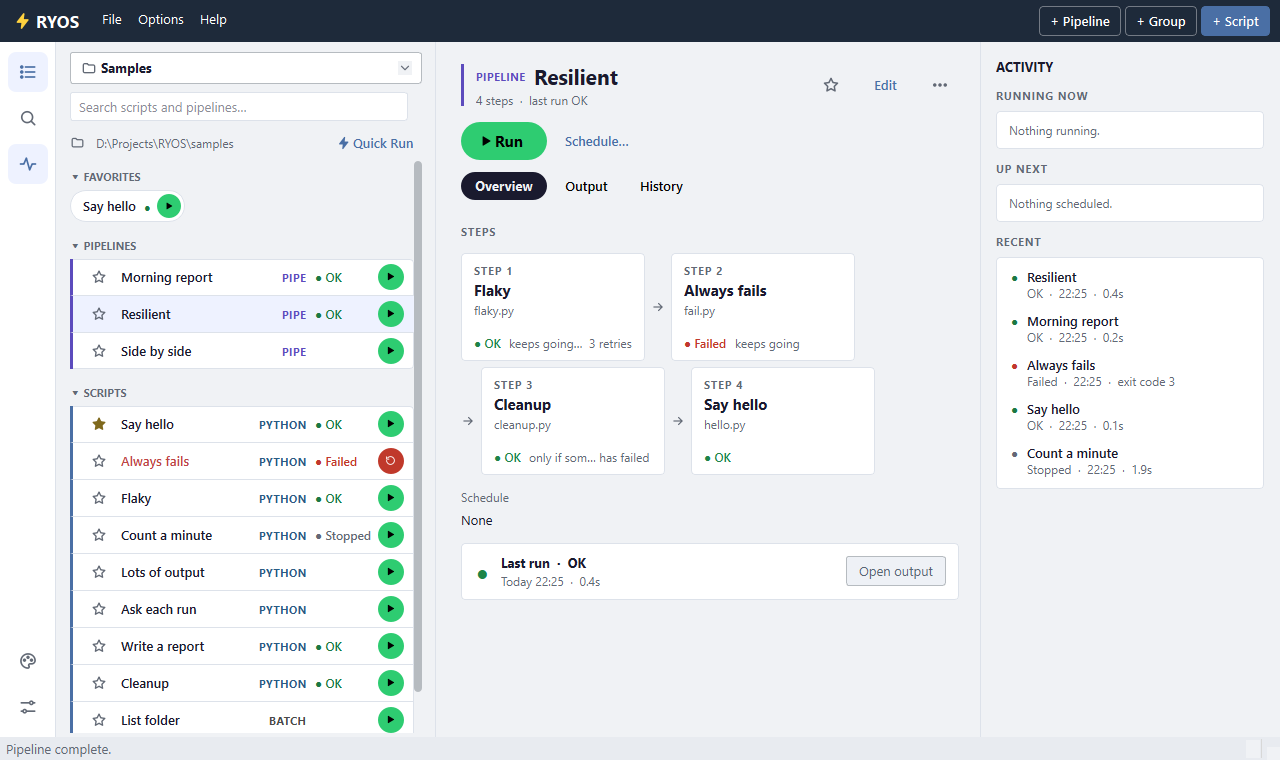
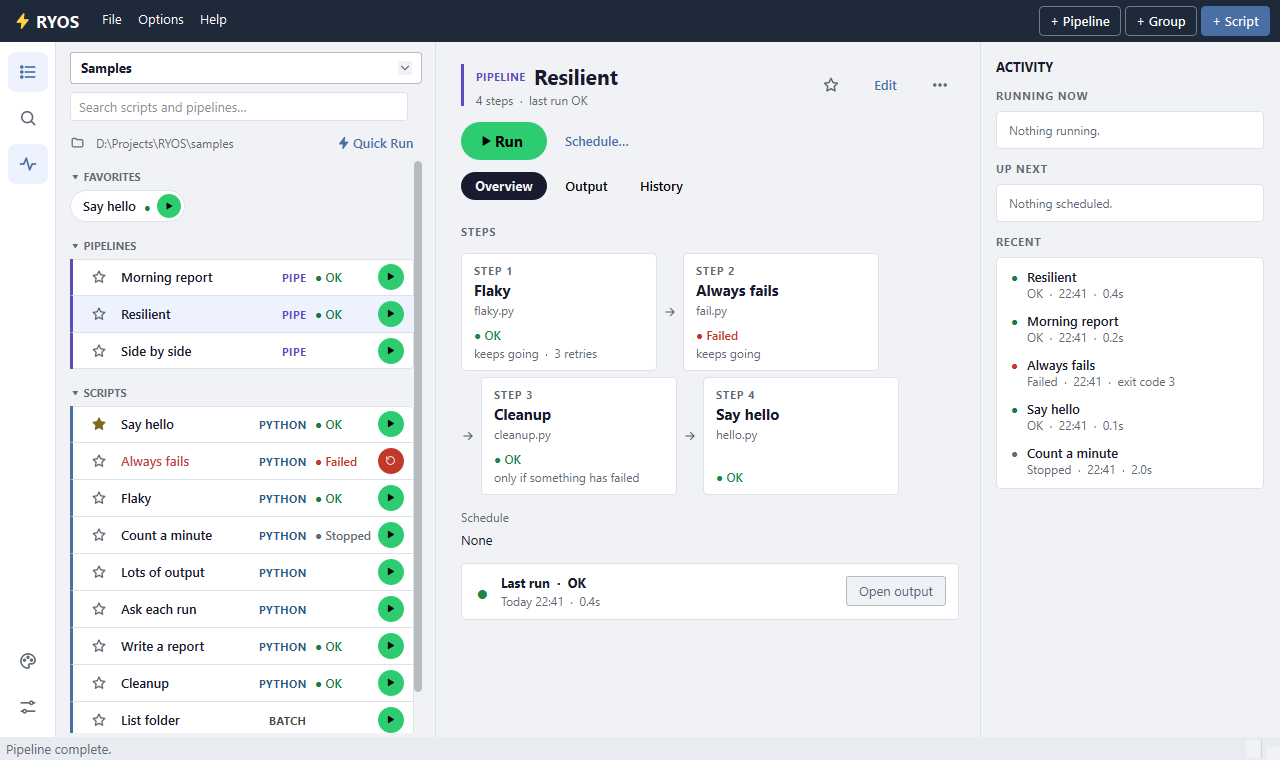
UI review: the last run said once, a picker that isn't a folder, whole notes
From a full review (five lenses, Light and Dark, the maximised layout in
all 15 gallery themes; audit unchanged at zero):

- the maximised pane said the last run three times in two formats; the
  "Last run" fact is gone and the subtitle uses the last-run box's words
  ("last run today 22:39, OK", "Fri 20:43", "09-20 20:43");
- the group picker carried a folder icon right over the base-folder line
  with the same icon -- a group is not a folder; now text and chevron;
- a step card's notes were cut mid-word beside its outcome ("only if
  som... has failed"); they have a line of their own.

The review skill's heuristics now describe the new maximised layout.

diff --git a/ryos/detail.py b/ryos/detail.py
@@ -89,8 +89,20 @@ def _or_dash(value) -> str:
     return str(value) if value else cardstyle.NO_VALUE
 
 
-def subtitle(kind: str, rec: dict, step_count: int = 0) -> str:
-    """The line under the name: what it is, and how its last run went."""
+def _when_words(stamp, now) -> str:
+    """When a run started, as the Activity bar and the last-run box say it:
+    "Today 22:33", "Yesterday 08:00", "Mon 08:00", "09-29 20:43"."""
+    started = history.parse_stamp(stamp)
+    if started is None:
+        return ""
+    when = activity.ago_text(started, now)
+    return f"Today {when}" if started.date() == now.date() else when
+
+
+def subtitle(kind: str, rec: dict, step_count: int = 0, now=None) -> str:
+    """The line under the name: what it is, and how its last run went --
+    in the same words as the last-run box below it."""
+    from datetime import datetime
     status = {"ok": "OK", "error": "failed", "stopped": "stopped"}.get(
         rec.get("status") or "")
     if kind == "pipeline":
@@ -98,8 +110,11 @@ def subtitle(kind: str, rec: dict, step_count: int = 0) -> str:
         head = f"{step_count} step{plural}"
     else:
         head = cardstyle.display_path(rec.get("path", ""), rec.get("base_dir", ""))
-    when = cardstyle.last_run_text(rec.get("last_run"))
+    when = _when_words(rec.get("last_run"), now or datetime.now())
     if status and when:
+        # Mid-sentence: "today", "yesterday"; a day's name keeps its capital.
+        if when.startswith(("Today", "Yesterday")):
+            when = when[0].lower() + when[1:]
         return f"{head}  ·  last run {when}, {status}"
     if status:
         return f"{head}  ·  last run {status}"
@@ -114,7 +129,6 @@ def script_facts(rec: dict) -> list[tuple[str, str]]:
         ("Parameters", _or_dash(rec.get("params"))),
         ("Asks each run", "Yes" if rec.get("temp_param") else "No"),
         ("Schedule", "Runs on a schedule" if rec.get("scheduled") else "None"),
-        ("Last run", _or_dash(cardstyle.last_run_text(rec.get("last_run")))),
     ]
 
 
@@ -177,11 +191,7 @@ def last_run_lines(row, now) -> tuple[str, str] | None:
         return None
     status = row[7]
     word = {"ok": "OK", "error": "Failed"}.get(status, "Stopped")
-    started = history.parse_stamp(row[5])
-    when = activity.ago_text(started, now) if started else "—"
-    if started is not None and started.date() == now.date():
-        when = f"Today {when}"
-    parts = [when, history.format_duration(row[5], row[6])]
+    parts = [_when_words(row[5], now) or "—", history.format_duration(row[5], row[6])]
     if status == "error":
         parts.append("did not start" if row[8] is None else f"exit code {row[8]}")
     return f"Last run  ·  {word}", "  ·  ".join(p for p in parts if p != "—")

diff --git a/tests/test_ryos.py b/tests/test_ryos.py
@@ -8378,10 +8378,16 @@ class TestMaximisedLayout(unittest.TestCase):
 
     def test_subtitle_says_what_it_is_and_how_it_went(self):
         rec = {"path": "C:/p/tools/a.py", "base_dir": "C:/p",
-               "status": "error", "last_run": "2026-09-29T20:43:10"}
-        self.assertEqual(detail.subtitle("script", rec),
+               "status": "error", "last_run": "2026-09-20T20:43:10"}
+        now = __import__("datetime").datetime(2026, 10, 5, 22, 0)
+        self.assertEqual(detail.subtitle("script", rec, now=now),
                          f"{os.path.join('tools', 'a.py')}  ·  "
-                         "last run 2026-09-29 20:43, failed")
+                         "last run 09-20 20:43, failed")
+        this_week = dict(rec, last_run="2026-10-02T20:43:10")
+        self.assertIn("last run Fri 20:43", detail.subtitle("script", this_week, now=now))
+        today = dict(rec, last_run="2026-10-05T21:09:00")
+        self.assertTrue(detail.subtitle("script", today, now=now).endswith(
+            "last run today 21:09, failed"), "the box's words, not a second format")
         self.assertEqual(detail.subtitle("pipeline", {"status": "ok"}, 1),
                          "1 step  ·  last run OK")
         self.assertEqual(detail.subtitle("pipeline", {}, 3), "3 steps")
@@ -8393,7 +8399,7 @@ class TestMaximisedLayout(unittest.TestCase):
         self.assertEqual(facts["Parameters"], "—")
         self.assertEqual(facts["Asks each run"], "Yes")
         self.assertEqual(facts["Schedule"], "Runs on a schedule")
-        self.assertEqual(facts["Last run"], "—")
+        self.assertNotIn("Last run", facts)       # the last-run box says it
         self.assertTrue(all(v for _k, v in detail.script_facts({})))
         self.assertEqual(dict(detail.pipeline_facts({}))["Schedule"], "None")
 

diff --git a/ryos/qtui/detail.py b/ryos/qtui/detail.py
@@ -28,7 +28,7 @@ from .icons import IconButton, IconLabel
 from .widgets import ElidedLabel, FlowLayout, literal, set_tooltip
 
 #: A step card's size: the same for every step, so the row reads as a sequence.
-STEP_CARD = (184, 108)
+STEP_CARD = (196, 118)
 
 
 def _alive(widget) -> bool:
@@ -446,18 +446,18 @@ class DetailPane(QWidget):
         where.setObjectName("cardPath")
         col.addWidget(where)
         col.addStretch(1)
-        foot = QHBoxLayout()
-        foot.setSpacing(8)
         spec = cardstyle.status_badge(step.status)
         if spec is not None:
             word = QLabel(spec.text)
             word.setStyleSheet(f"color: {_readable_on(c[spec.bg_key], (c['card_bg'],))};"
                                " font-size: 9pt; font-weight: 600;")
-            foot.addWidget(word)
+            col.addWidget(word)
+        # Their own line: beside the outcome, "only if something has failed"
+        # was cut to "only if som… has failed".
         notes = ElidedLabel("  ·  ".join(step.notes))
         notes.setObjectName("cardPath")
-        foot.addWidget(notes, 1)
-        col.addLayout(foot)
+        notes.setVisible(bool(step.notes))
+        col.addWidget(notes)
         said = [f"Step {step.number}: {step.name}", step.file,
                 cardstyle.status_words(step.status) or "", *step.notes]
         card.setToolTip("\n".join(s for s in said if s))

diff --git a/ryos/qtui/shell.py b/ryos/qtui/shell.py
@@ -533,8 +533,9 @@ class MainWindow(QMainWindow):
         self._top_col = col
         col.addWidget(self._build_select_bar())
         # Maximised, the group pills give way to a picker over the list.
-        self.group_picker = IconButton("folder", "", role="muted", hover_role="text",
-                                       size=16, palette=self._palette)
+        # No folder icon: a group is not a folder, and the group's base
+        # folder sits right under it with that icon.
+        self.group_picker = QPushButton("")
         self.group_picker.setObjectName("groupPicker")
         self.group_picker.setFocusPolicy(Qt.FocusPolicy.TabFocus)
         set_tooltip(self.group_picker, "Choose a group")

diff --git a/.claude/skills/review-ryos-ui/references/ui-ux-heuristics.md b/.claude/skills/review-ryos-ui/references/ui-ux-heuristics.md
@@ -22,8 +22,8 @@ work. Most visits are seconds long. Everything below serves that loop.
 | Run | A green circle (`btn_run_bg`), ↻ on red (`error`) after a failure. The only filled thing on a row | `cardstyle.run_button()` |
 | Icons | One drawn set (`qtui/icons.py`): 24-unit grid, 2-unit stroke, round ends, outline except play, stop, the brand bolt and a favourite's star; tinted by colour role, re-tinted on a theme change. Never a font glyph or an emoji | `IconButton`, `IconLabel`, `menus._icon` |
 | Words for state | Kind, badges and outcome are coloured words ("● OK", "● Failed"), never filled chips | `_tag`, `_status_chip` |
-| Maximised | List on the left (compact rows), the chosen item on the right: name, Run/Retry, Run with…, Schedule…, Run history, preset chips, steps, facts, output | `qtui/detail.py`, rules `ryos/detail.py` |
-| Output | Dark terminal (`out_*` keys) under the list, or under the detail when maximised; a small pill tab per run | `shell.py` `OutputPane` |
+| Maximised | A rail of places (Library, Search, Activity with a running count; Appearance, Options at its foot); a group picker over the compact list instead of the pills; the chosen item's name and Run/Retry over pill tabs: Overview (preset pills that also run, step cards, facts, Last run box), Output (the output panel, lent here), History; the Activity bar (running now with Stop, up next, recent); a summary on the status bar's right | `qtui/detail.py`, `qtui/rail.py`, `qtui/activity.py`; rules `ryos/detail.py`, `ryos/activity.py` |
+| Output | Dark terminal (`out_*` keys) under the list, or in the detail's Output tab when maximised; a small pill tab per run | `shell.py` `OutputPane` |
 
 **Principles** (from `design-system/project/README.md`): flat, near-square,
 hairlined; one filled action per area; colour from the palette only; words
